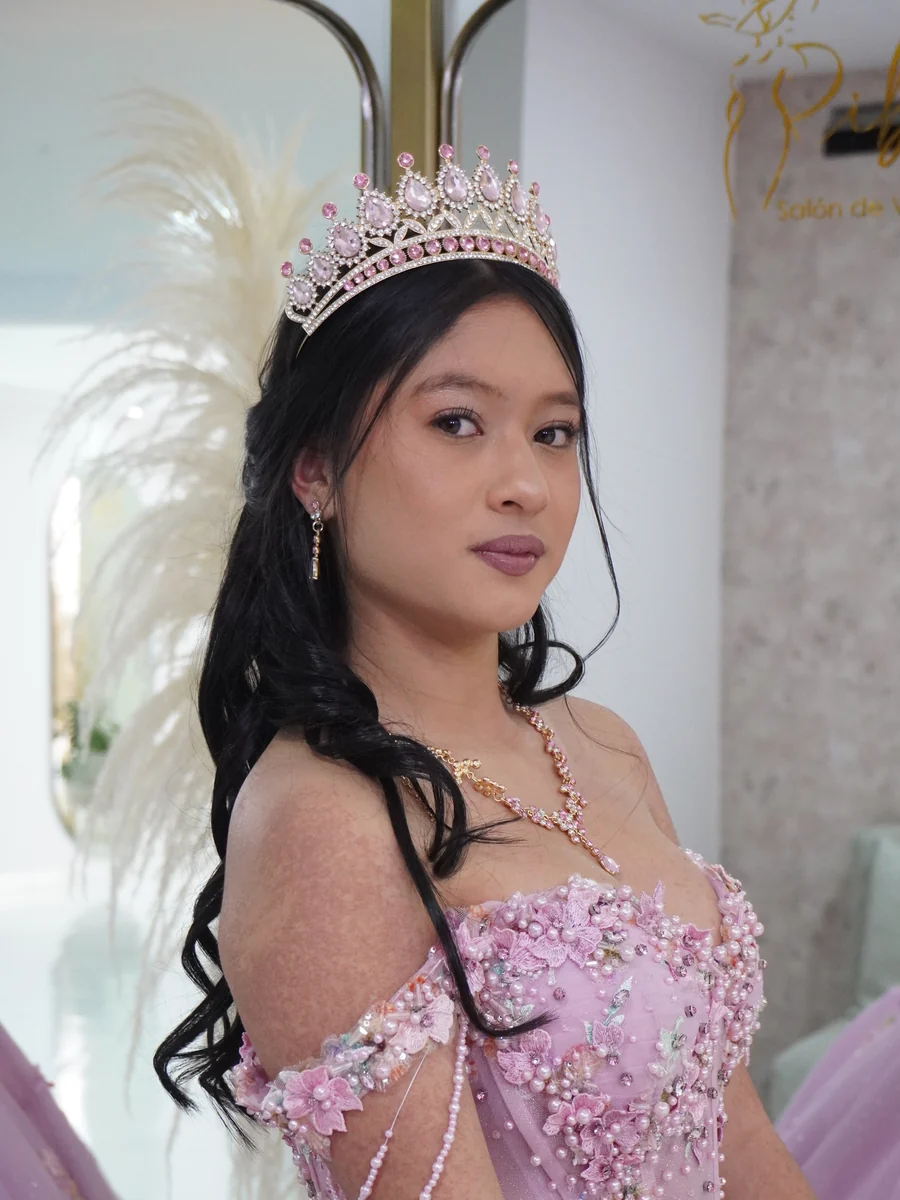
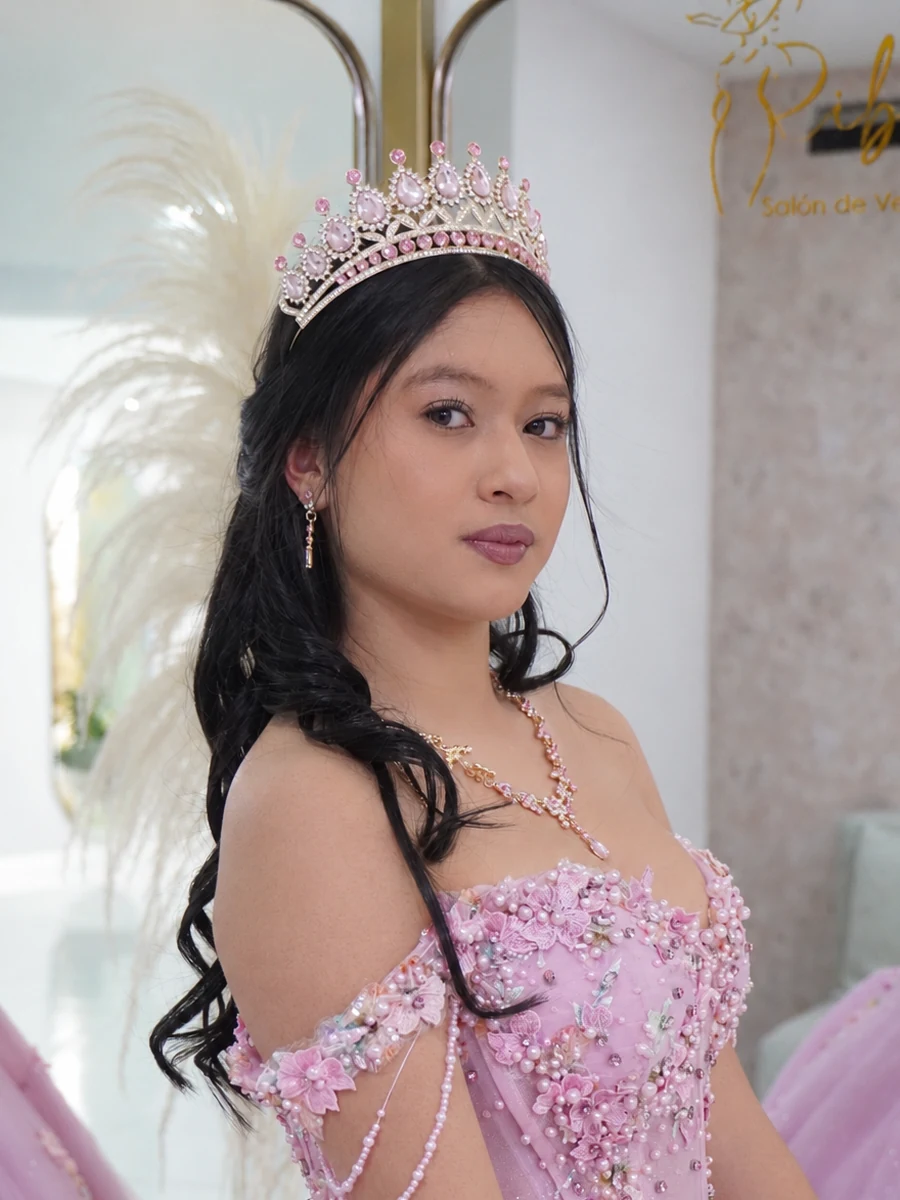
Marco con marcoo.png centrada; el nombre del invitado tambien aparece en la carta que sale del sobre

diff --git a/css/styles.css b/css/styles.css
@@ -791,7 +791,7 @@ body.is-locked #app { transform: scale(.9); filter: blur(6px); border-radius: 28
 
 /* ===== Ronda 5 ===== */
 /* Foto del marco */
-.medallion-photo img { object-position: 50% 30%; transform: translateX(4%) scale(1.1); }
+.medallion-photo img { object-position: 50% 30%; }
 
 /* Frase del sueño separada de las nubes */
 .dream .lead { margin-top: 58px; }
@@ -1002,3 +1002,5 @@ img { -webkit-user-drag: none; }
 .intro-para b { font-family: var(--f-script); font-weight: 400; font-size: clamp(26px, 8vw, 34px); line-height: 1.15; color: #fff1f6; text-shadow: 0 0 18px rgba(255, 180, 210, .55), 0 1px 6px rgba(40, 12, 30, .7); }
 .places-note { margin: 4px auto 14px; max-width: 340px; font-family: var(--f-body); font-style: italic; font-weight: 500; font-size: 20px; line-height: 1.35; color: var(--rose); text-shadow: 0 0 14px rgba(255, 248, 240, 1), 0 0 4px rgba(255, 248, 240, .9); }
 .places-note[hidden] { display: none; }
+.letter-for { margin-top: 6px; padding: 5px 14px 0; max-width: 92%; border-top: 1px solid rgba(201, 162, 75, .5); font-family: var(--f-script); font-size: clamp(19px, 5.6vw, 24px); line-height: 1.15; color: var(--rose); text-wrap: balance; }
+.letter-for[hidden] { display: none; }

diff --git a/index.html b/index.html
@@ -22,7 +22,7 @@
   <link href="https://fonts.googleapis.com/css2?family=Parisienne&text=A&display=swap" rel="stylesheet">
 
   <link rel="preload" href="assets/img/valle-poster.webp" as="image">
-  <link rel="stylesheet" href="css/styles.css?v=43">
+  <link rel="stylesheet" href="css/styles.css?v=45">
 </head>
 <body class="is-locked">
 
@@ -56,6 +56,7 @@
         <span class="letter-xv">XV</span>
         <span class="letter-name">Luisa María</span>
         <span class="letter-date">05 · 12 · 2026</span>
+        <span class="letter-for" id="letterFor" hidden></span>
       </div>
       <div class="env-front"></div>
       <div class="env-flap" id="flap"></div>
@@ -385,6 +386,6 @@
   <script src="https://cdnjs.cloudflare.com/ajax/libs/gsap/3.12.5/gsap.min.js"></script>
   <script src="https://cdnjs.cloudflare.com/ajax/libs/gsap/3.12.5/ScrollTrigger.min.js"></script>
   <script src="https://unpkg.com/lenis@1.1.13/dist/lenis.min.js"></script>
-  <script src="js/main.js?v=10"></script>
+  <script src="js/main.js?v=11"></script>
 </body>
 </html>

diff --git a/js/main.js b/js/main.js
@@ -24,6 +24,7 @@
   if (guest) {
     $('#introParaName').textContent = guest;
     $('#introPara').hidden = false;
+    const lf = $('#letterFor'); lf.textContent = guest; lf.hidden = false;   // también en la carta que sale del sobre
     waText = `Hola, confirmo mi asistencia a los XV años de Luisa María.\n\nInvitado: ${guest}` + (seats ? `\nLugares reservados: ${seats}` : '') + '\nAsistiremos: ';
   }
   if (guest && seats) {

diff --git a/tools/ronda8_fotos.py b/tools/ronda8_fotos.py
@@ -79,9 +79,9 @@ def main():
         cut.save(IMG / "luisa-final.webp", "WEBP", quality=90, method=6)
         print("final", cut.size)
     elif modo == "marco":
-        # recorte con la cara al centro del óvalo (x=0..3375 de la foto de 4000x6000)
-        im = ImageOps.exif_transpose(Image.open(FV / "marco.JPG")).convert("RGB")
-        im = im.crop((0, 0, 3375, 4500)).resize((900, 1200), Image.LANCZOS)
+        # marcoo.png (1024x1536): recorte 3:4 con la cara (x≈440) al centro del óvalo
+        im = ImageOps.exif_transpose(Image.open(FV / "marcoo.png")).convert("RGB")
+        im = im.crop((0, 0, 880, 1173)).resize((900, 1200), Image.LANCZOS)
         im.save(IMG / "foto-marco.webp", "WEBP", quality=86, method=6)
         print("marco", im.size)
 
